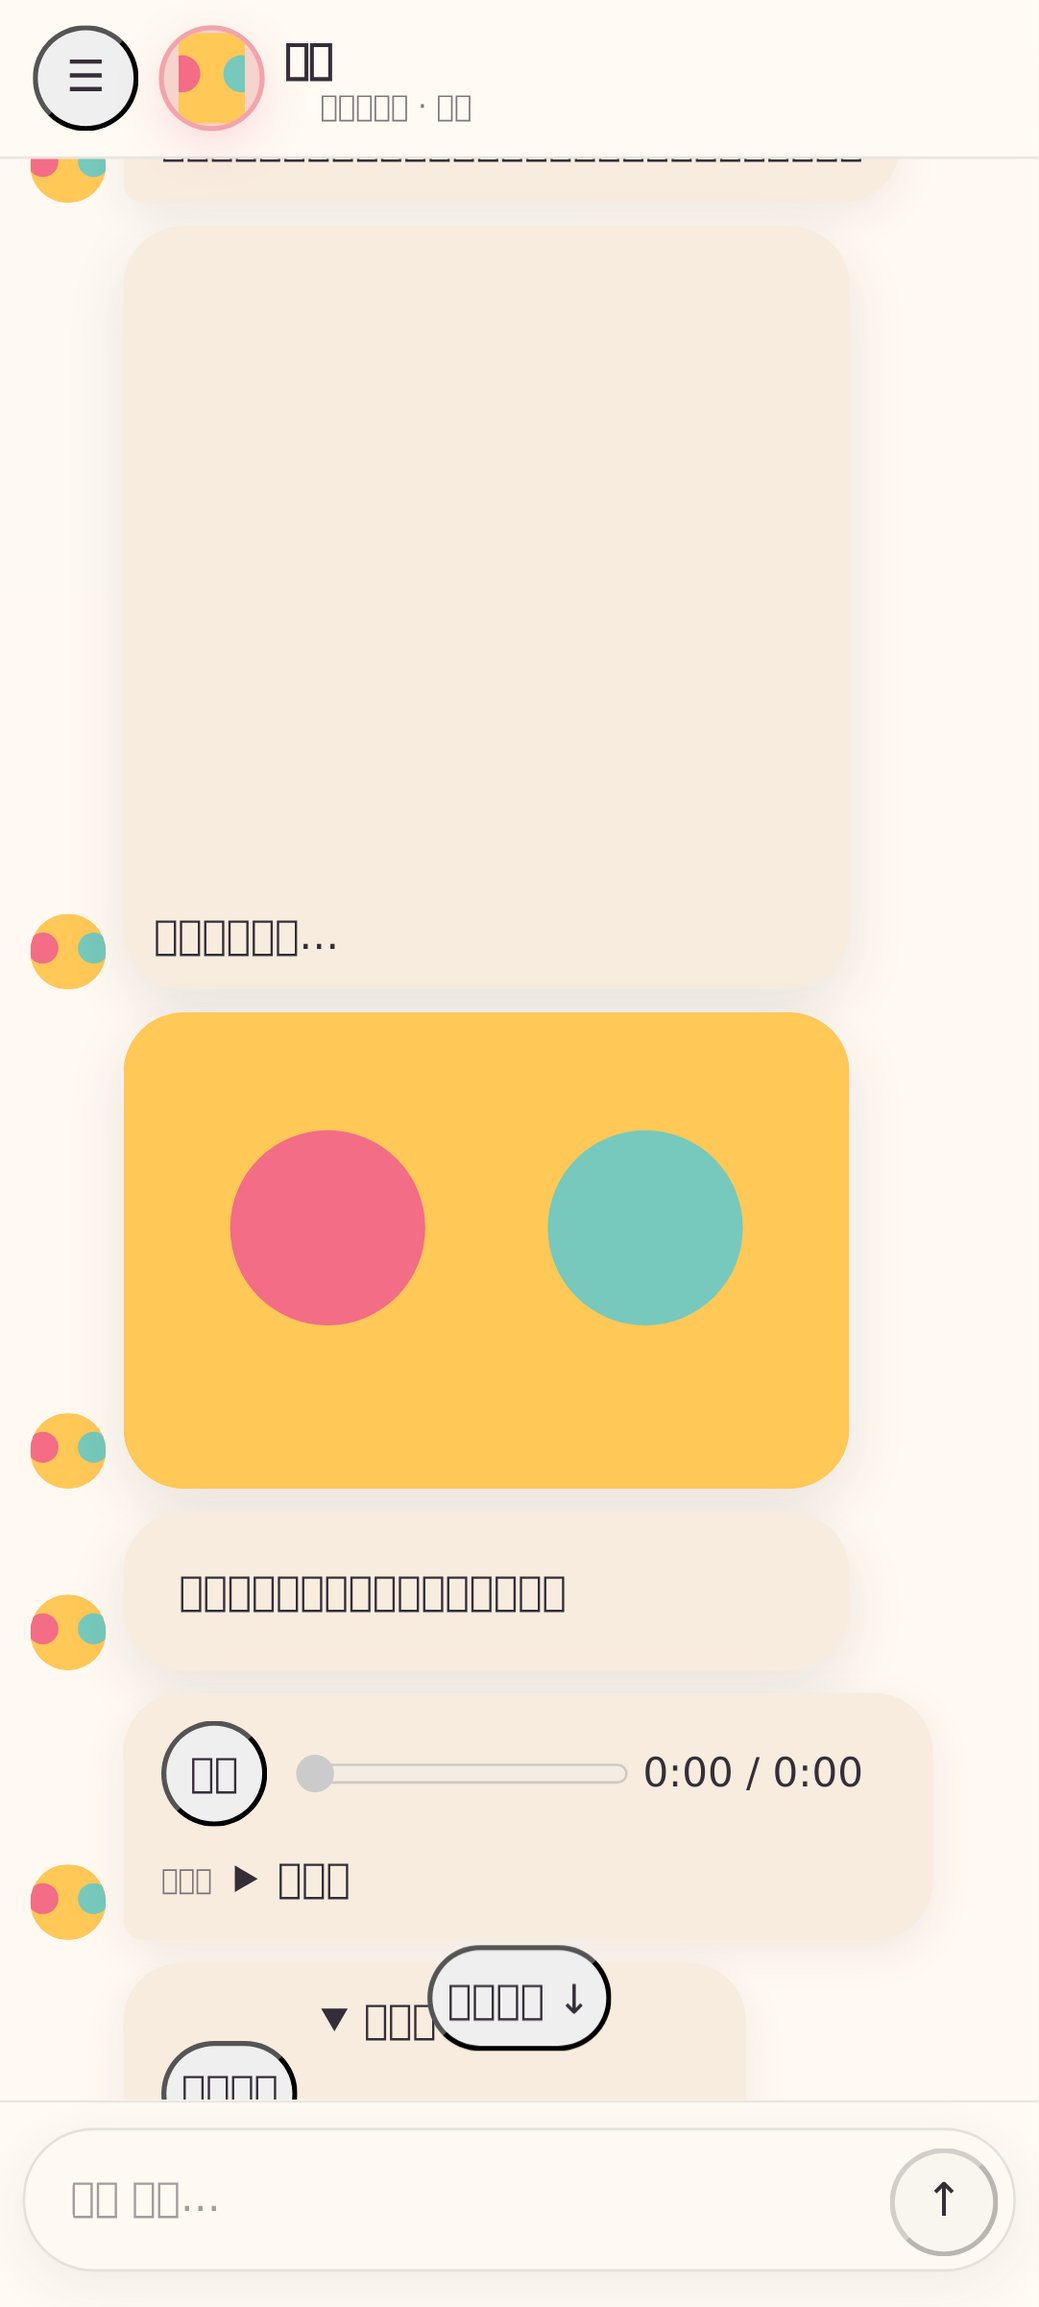
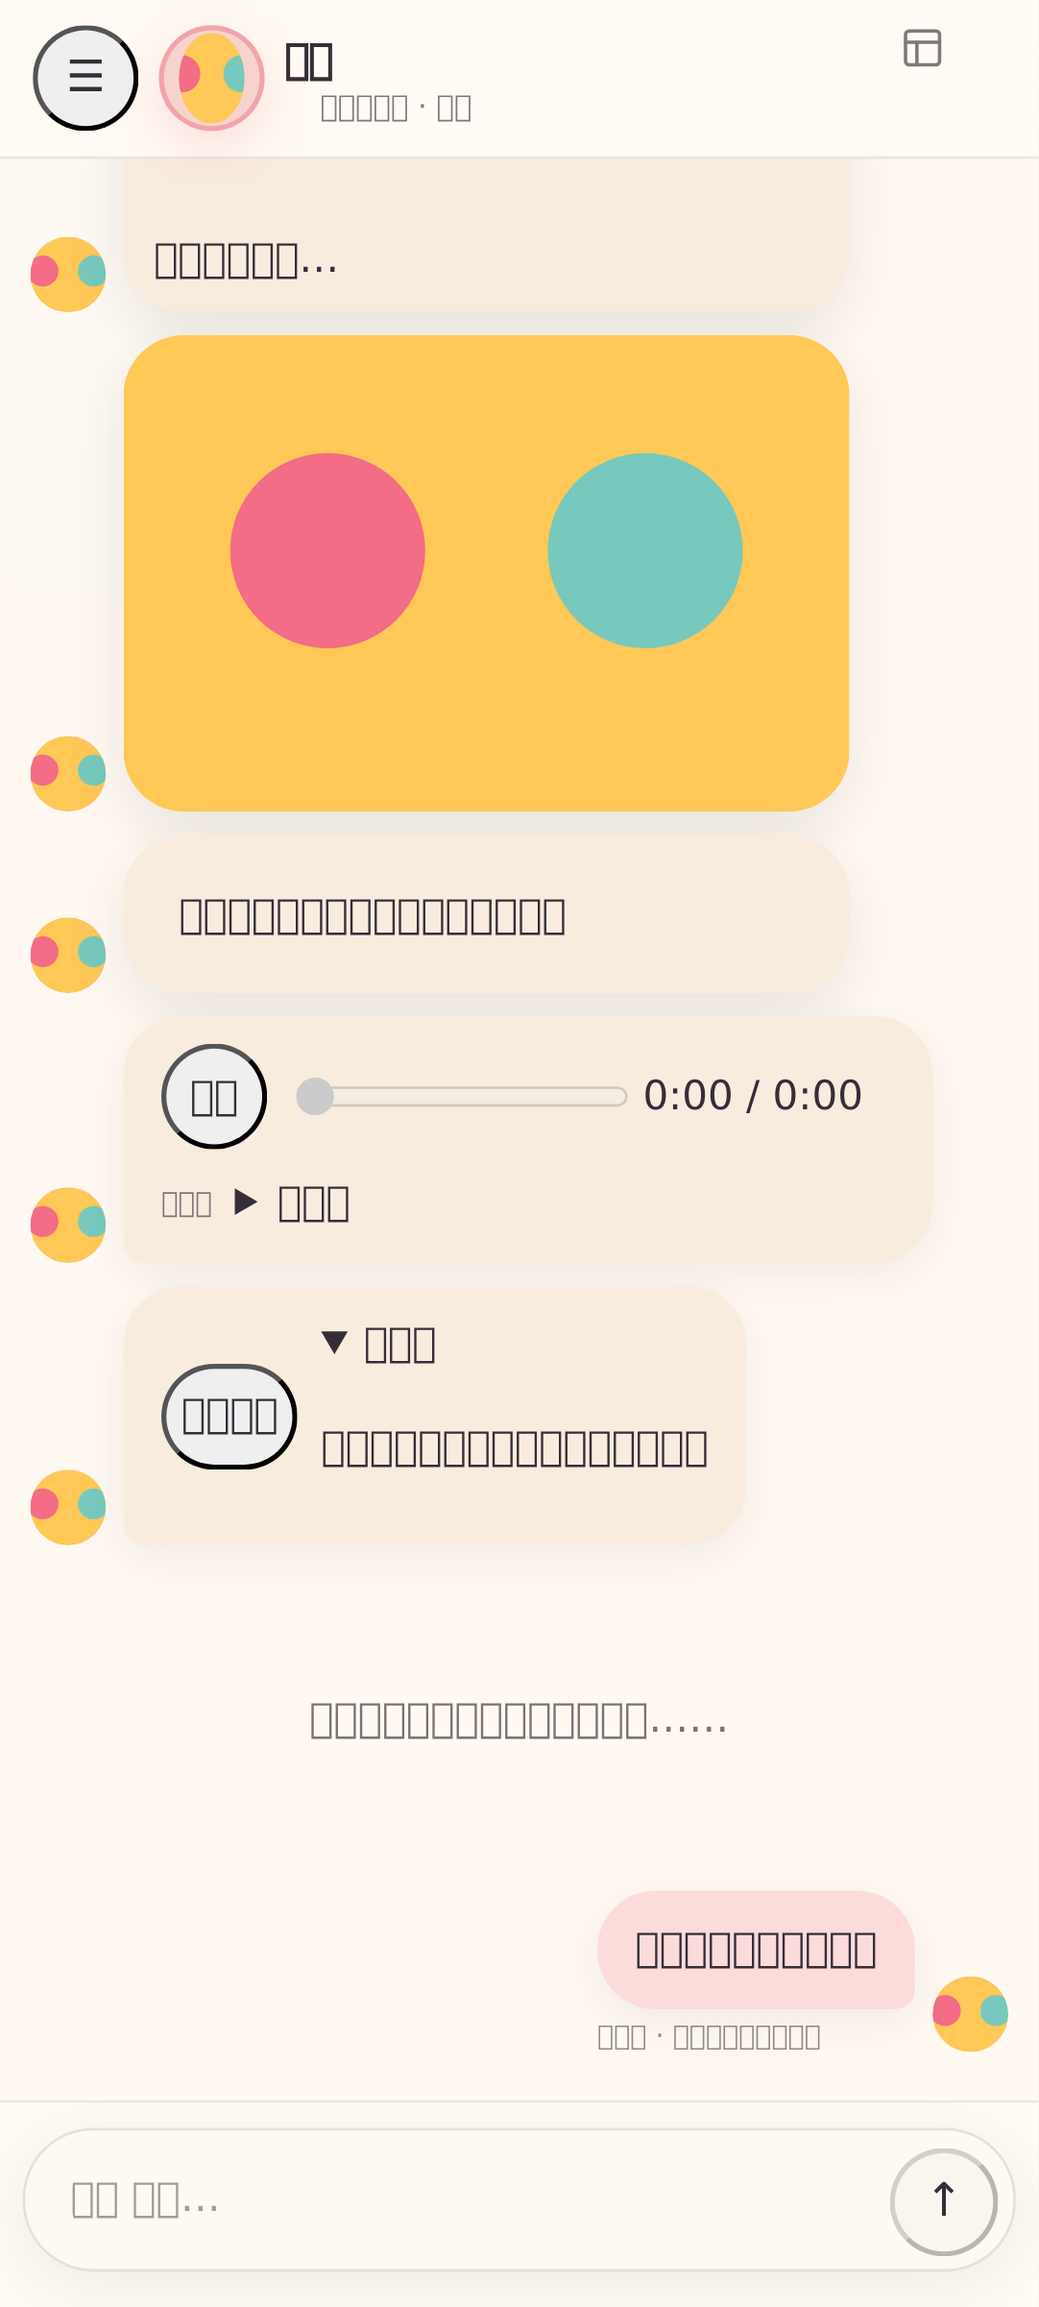
fix(companion): stabilize chat shell interactions

diff --git a/src/client/Companion.svelte b/src/client/Companion.svelte
@@ -1,5 +1,6 @@
 <script lang="ts">
   import { createEventDispatcher, onDestroy, tick } from "svelte";
+  import PanelsTopLeft from "lucide-svelte/icons/panels-top-left";
   import type { CompanionProjection, TimelineImage, TimelineVoice } from "../projection.js";
   import { createComposerState, reduceComposer, shouldSubmitEnter } from "./composer.js";
   import Markdown from "./Markdown.svelte";
@@ -45,6 +46,9 @@
   const dispatch = createEventDispatcher<{ advanced: void; recovery: void }>();
   let composer = createComposerState();
   let timeline: HTMLDivElement;
+  let timelineReady = false;
+  let timelineRevealFrame = 0;
+  let detailAnchor: HTMLDivElement;
   let sidebarOpen = typeof window !== "undefined" && window.matchMedia("(min-width: 821px)").matches;
   let detailOpen = false;
   let lightbox: TimelineImage | undefined;
@@ -73,9 +77,24 @@
   async function reconcileProjection(value: CompanionProjection): Promise<void> {
     await tick();
     if (!timeline) return;
+    if (value.openState !== "open") {
+      if (timelineRevealFrame) cancelAnimationFrame(timelineRevealFrame);
+      timelineRevealFrame = 0;
+      timelineReady = false;
+      return;
+    }
     const distance = timeline.scrollHeight - timeline.clientHeight - timeline.scrollTop;
     const nearBottom = wasNearBottom || distance < 96;
     if (nearBottom && !value.loadingOlder) timeline.scrollTop = timeline.scrollHeight;
+    if (!timelineReady) {
+      if (timelineRevealFrame) cancelAnimationFrame(timelineRevealFrame);
+      timelineRevealFrame = requestAnimationFrame(() => {
+        if (!timeline) return;
+        timeline.scrollTop = timeline.scrollHeight;
+        timelineReady = true;
+        timelineRevealFrame = 0;
+      });
+    }
     wasNearBottom = nearBottom;
     liveAnnouncement = value.promptError ?? value.lastAgentError ?? "";
     const wantedImages = new Map<string, TimelineImage>();
@@ -181,6 +200,14 @@
     wasNearBottom = timeline.scrollHeight - timeline.clientHeight - timeline.scrollTop < 96;
   }
 
+  function keepBottomOnResize(node: HTMLElement): { destroy(): void } {
+    const observer = new ResizeObserver(() => {
+      if (timelineReady && wasNearBottom && timeline) timeline.scrollTop = timeline.scrollHeight;
+    });
+    observer.observe(node);
+    return { destroy: () => observer.disconnect() };
+  }
+
   function submit(): void {
     const text = composer.draft.trim();
     if (!text || composer.composing) return;
@@ -230,7 +257,11 @@
   }
   function closeHistory(): void { if (overlayHistory) { overlayHistory = false; history.back(); } }
   function openDetail(): void { detailReturnFocus = document.activeElement as HTMLElement; detailOpen = true; focusFirst(() => detailDialog); }
-  function closeDetail(fromHistory = false): void { detailOpen = false; if (!fromHistory) closeHistory(); detailReturnFocus?.focus(); detailReturnFocus = undefined; }
+  function closeDetail(restoreFocus = true): void {
+    detailOpen = false;
+    if (restoreFocus) detailReturnFocus?.focus();
+    detailReturnFocus = undefined;
+  }
   function openLightbox(item: TimelineImage): void {
     lightboxReturnFocus = document.activeElement as HTMLElement;
     lightbox = item;
@@ -243,19 +274,23 @@
     if (lightbox && lightboxDialog) trapFocus(event, lightboxDialog);
     else if (detailOpen && detailDialog) trapFocus(event, detailDialog);
   }
-  function onPopState(): void { overlayHistory = false; if (lightbox) closeLightbox(true); else if (detailOpen) closeDetail(true); }
+  function onWindowPointerDown(event: PointerEvent): void {
+    if (detailOpen && detailAnchor && !detailAnchor.contains(event.target as Node)) closeDetail(false);
+  }
+  function onPopState(): void { overlayHistory = false; if (lightbox) closeLightbox(true); }
   function pushOverlayHistory(): void { if (!overlayHistory) { history.pushState({ companionOverlay: true }, ""); overlayHistory = true; } }
-  function showDetail(): void { pushOverlayHistory(); openDetail(); }
+  function toggleDetail(): void { if (detailOpen) closeDetail(); else openDetail(); }
   function showLightbox(item: TimelineImage): void { pushOverlayHistory(); openLightbox(item); }
   async function loadOlder(): Promise<void> { if (!actions.loadOlder || projection.loadingOlder) return; const previousHeight = timeline?.scrollHeight ?? 0; await actions.loadOlder(); await tick(); if (timeline) timeline.scrollTop += timeline.scrollHeight - previousHeight; }
 
   onDestroy(() => {
+    if (timelineRevealFrame) cancelAnimationFrame(timelineRevealFrame);
     for (const audio of document.querySelectorAll<HTMLAudioElement>("#dsh-companion .companion-voice audio")) audio.pause();
     for (const url of Object.values(imageUrls)) if (url.startsWith("blob:")) URL.revokeObjectURL(url);
   });
 </script>
 
-<svelte:window on:keydown={onWindowKeydown} on:popstate={onPopState} />
+<svelte:window on:keydown={onWindowKeydown} on:pointerdown={onWindowPointerDown} on:popstate={onPopState} />
 
 <div id="dsh-companion" class="companion-shell" data-theme={scheme === "dark" ? "night-voyage" : "sticker-messenger"} data-testid="companion-root">
   <div class="cmp-drawer companion-app" class:cmp-drawer-open={sidebarOpen} class:sidebar-open={sidebarOpen}>
@@ -264,12 +299,11 @@
     <main class="companion-main" aria-label="Companion 私聊">
       <header class="companion-header">
         <button class="cmp-btn cmp-btn-ghost cmp-btn-circle companion-session-toggle" aria-label={sidebarOpen ? "收起对话列表" : "展开对话列表"} aria-controls="companion-session-list" aria-expanded={sidebarOpen} on:click={() => sidebarOpen = !sidebarOpen}><span aria-hidden="true">☰</span></button>
-        <div class="companion-avatar-anchor">
-          <button class="cmp-avatar cmp-avatar-placeholder companion-avatar" aria-label="查看 Companion 关系资料" aria-expanded={detailOpen} on:click={showDetail}>
+        <div bind:this={detailAnchor} class="companion-avatar-anchor">
+          <button class="cmp-avatar cmp-avatar-placeholder companion-avatar" aria-label="查看 Companion 关系资料" aria-expanded={detailOpen} on:click={toggleDetail}>
             {#if identity.companionAvatar}<img src={identity.companionAvatar} alt="" />{:else}<span aria-hidden="true">✦</span>{/if}
           </button>
           {#if detailOpen}
-            <button class="companion-detail-dismiss" aria-label="点击空白处关闭关系资料" tabindex="-1" on:click={() => closeDetail()}></button>
             <dialog bind:this={detailDialog} open class="companion-detail-card cmp-modal-box" aria-label={`${identity.companionName}的关系资料`} style={`--relationship-art: url("${relationshipBackground}")`}>
               <div class="companion-detail-art" aria-hidden="true"></div>
               <div class="companion-detail-head">
@@ -286,7 +320,7 @@
           <div class="companion-name">{identity.companionName}</div>
           <div class="companion-presence" aria-live="polite"><span class="cmp-status {projection.status === 'working' ? 'cmp-status-warning' : projection.status === 'reconnecting' ? 'cmp-status-error' : 'cmp-status-success'}"></span>{statusText} · {identity.moodLabel}</div>
         </div>
-        <a class="companion-advanced" href="/" on:click={() => dispatch("advanced")}>高级 DSH</a>
+        <a class="cmp-btn cmp-btn-ghost cmp-btn-circle companion-full-dsh" href="/" aria-label="打开完整 DSH" title="打开完整 DSH" on:click={() => dispatch("advanced")}><PanelsTopLeft size={18} strokeWidth={1.8} aria-hidden="true" /></a>
       </header>
 
       {#if !workspaceReady}
@@ -304,7 +338,8 @@
           <button class="cmp-btn cmp-btn-primary" on:click={() => dispatch("recovery")}>重新连接</button>
         </section>
       {:else}
-        <div bind:this={timeline} class="companion-timeline" role="log" aria-live="polite" aria-relevant="additions text" on:scroll={onScroll}>
+        <div bind:this={timeline} class="companion-timeline" class:timeline-ready={timelineReady} role="log" aria-live="polite" aria-relevant="additions text" on:scroll={onScroll}>
+          <div class="companion-timeline-content" use:keepBottomOnResize>
           {#if projection.hasMore}
             <button class="cmp-btn cmp-btn-ghost cmp-btn-sm" style="display:block;margin:0 auto 18px" on:click={loadOlder} disabled={projection.loadingOlder}>{projection.loadingOlder ? "正在加载…" : "查看更早的消息"}</button>
           {/if}
@@ -353,6 +388,7 @@
             {/if}
           {/each}
           {#if !wasNearBottom && projection.items.length > 0}<button class="cmp-btn cmp-btn-primary cmp-btn-sm" style="position:sticky;bottom:10px;left:50%;transform:translateX(-50%)" on:click={() => timeline.scrollTop = timeline.scrollHeight}>有新消息 ↓</button>{/if}
+          </div>
         </div>
         <div class="companion-composer">
           <div class="companion-compose-row">
@@ -377,7 +413,7 @@
           {/each}
           {#if sessions.length === 0}<p class="companion-session-empty">还没有可以继续的对话</p>{/if}
         </nav>
-        <a class="companion-sidebar-advanced" href="/" on:click={() => dispatch("advanced")}>打开高级 DSH</a>
+        <a class="companion-sidebar-advanced" href="/" on:click={() => dispatch("advanced")}>打开完整 DSH</a>
       </aside>
     </div>
   </div>

diff --git a/src/client/theme.ts b/src/client/theme.ts
@@ -47,14 +47,17 @@ export const companionStyles = `
 #dsh-companion .companion-name{font-size:1.02rem;font-weight:780;letter-spacing:-.02em}
 #dsh-companion .companion-presence{display:flex;align-items:center;gap:6px;margin-top:2px;color:color-mix(in srgb,var(--color-base-content) 64%,transparent);font-size:.73rem}
 #dsh-companion .companion-presence .cmp-status{width:8px;height:8px}
-#dsh-companion .companion-advanced{color:inherit;opacity:.64;font-size:.76rem;text-decoration:none}
-#dsh-companion .companion-advanced:hover{opacity:1}
-#dsh-companion .companion-timeline{min-height:0;overflow-y:auto;overscroll-behavior:contain;scrollbar-gutter:stable;padding:28px clamp(16px,4vw,48px) 16px;scroll-behavior:smooth}
+#dsh-companion .companion-full-dsh{flex:none;color:inherit;opacity:.64;text-decoration:none}
+#dsh-companion .companion-full-dsh:hover{opacity:1}
+#dsh-companion .companion-timeline{min-height:0;overflow-y:auto;overscroll-behavior:contain;scrollbar-gutter:stable;padding:28px clamp(16px,4vw,48px) 16px}
+#dsh-companion .companion-timeline:not(.timeline-ready){visibility:hidden}
 #dsh-companion .companion-row{display:grid;grid-template-columns:34px minmax(0,auto);align-items:end;justify-content:start;gap:9px;width:100%;margin:9px 0}
 #dsh-companion .companion-row.outgoing{grid-template-columns:minmax(0,auto) 34px;justify-content:end}
 #dsh-companion .companion-row.outgoing .message-avatar{grid-column:2}
 #dsh-companion .companion-row.outgoing .companion-message-stack{grid-column:1;grid-row:1}
 #dsh-companion .message-avatar{width:34px;height:34px;font-size:.72rem}
+#dsh-companion .companion-avatar,#dsh-companion .message-avatar,#dsh-companion .companion-detail-avatar{overflow:hidden;border-radius:50%}
+#dsh-companion .companion-avatar img,#dsh-companion .message-avatar img,#dsh-companion .companion-detail-avatar img{border-radius:inherit}
 #dsh-companion .companion-message-stack{max-width:min(76vw,680px)}
 #dsh-companion .companion-bubble{max-width:min(76vw,680px);padding:11px 15px;border-radius:23px 23px 23px 8px;background:var(--color-base-200);box-shadow:0 5px 18px color-mix(in srgb,var(--color-base-content) 7%,transparent);line-height:1.55;overflow-wrap:anywhere}
 #dsh-companion .outgoing .companion-bubble{border-radius:23px 23px 8px 23px;background:color-mix(in srgb,var(--color-primary) 22%,var(--color-base-100))}
@@ -95,7 +98,6 @@ export const companionStyles = `
 #dsh-companion .companion-session-running{width:8px;height:8px;flex:none;border-radius:50%;background:var(--color-secondary);box-shadow:0 0 0 4px color-mix(in srgb,var(--color-secondary) 14%,transparent)}
 #dsh-companion .companion-session-empty{padding:16px 12px;opacity:.55;font-size:.78rem}
 #dsh-companion .companion-sidebar-advanced{margin-top:12px;padding:10px;color:inherit;opacity:.58;font-size:.74rem;text-align:center;text-decoration:none}
-#dsh-companion .companion-detail-dismiss{position:fixed;inset:0;z-index:18;border:0;background:transparent}
 #dsh-companion .companion-detail-card{position:absolute;z-index:20;top:calc(100% + 10px);left:-8px;width:min(372px,calc(100vw - 38px));max-width:none;margin:0;padding:0;overflow:hidden;border:1px solid color-mix(in srgb,var(--color-base-content) 12%,transparent);border-radius:28px;background:color-mix(in srgb,var(--color-base-100) 94%,transparent);color:var(--color-base-content);box-shadow:0 24px 70px rgb(0 0 0 / .28);animation:companion-card-in .2s cubic-bezier(.2,.8,.2,1);transform-origin:36px 0;backdrop-filter:blur(18px)}
 #dsh-companion .companion-detail-art{height:128px;background:linear-gradient(to bottom,transparent 45%,var(--color-base-100)),var(--relationship-art) center 54%/cover no-repeat}
 #dsh-companion[data-theme="sticker-messenger"] .companion-detail-art{filter:saturate(.78) brightness(1.2);opacity:.82}
@@ -114,7 +116,7 @@ export const companionStyles = `
 #dsh-companion .companion-lightbox-close{position:absolute;top:12px;right:12px;z-index:1}
 @keyframes companion-card-in{from{opacity:0;transform:translateY(-8px) scale(.96)}to{opacity:1;transform:none}}
 @media (min-width:821px){#dsh-companion .companion-sidebar-layer{position:relative;grid-column:1;grid-row:1;transform:none;width:100%;overflow:hidden}#dsh-companion .companion-app:not(.sidebar-open) .companion-sidebar-layer{width:0}#dsh-companion .companion-sidebar{position:absolute;inset:0 auto 0 0}}
-@media (max-width:820px){#dsh-companion.companion-shell{padding:0}#dsh-companion .companion-app,#dsh-companion .companion-app.sidebar-open{grid-template-columns:minmax(0,1fr);width:100%;height:100dvh;border:0;border-radius:0}#dsh-companion .companion-content{grid-column:1}#dsh-companion .companion-sidebar-layer{width:100%}#dsh-companion .companion-sidebar-overlay{position:absolute;inset:0;display:block;background:rgb(8 12 20 / .42)}#dsh-companion .companion-sidebar{position:relative;width:min(84vw,300px);box-shadow:20px 0 60px rgb(0 0 0 / .2)}#dsh-companion .companion-header{padding:calc(10px + env(safe-area-inset-top)) 13px 10px}#dsh-companion .companion-timeline{padding:18px 12px 10px}#dsh-companion .companion-advanced{display:none}#dsh-companion .companion-composer{padding-inline:9px}#dsh-companion .companion-compose-hint{display:none}#dsh-companion .companion-detail-card{left:-55px}#dsh-companion .companion-message-stack,#dsh-companion .companion-bubble{max-width:78vw}}
+@media (max-width:820px){#dsh-companion.companion-shell{padding:0}#dsh-companion .companion-app,#dsh-companion .companion-app.sidebar-open{grid-template-columns:minmax(0,1fr);width:100%;height:100dvh;border:0;border-radius:0}#dsh-companion .companion-content{grid-column:1}#dsh-companion .companion-sidebar-layer{width:100%}#dsh-companion .companion-sidebar-overlay{position:absolute;inset:0;display:block;background:rgb(8 12 20 / .42)}#dsh-companion .companion-sidebar{position:relative;width:min(84vw,300px);box-shadow:20px 0 60px rgb(0 0 0 / .2)}#dsh-companion .companion-header{padding:calc(10px + env(safe-area-inset-top)) 13px 10px}#dsh-companion .companion-timeline{padding:18px 12px 10px}#dsh-companion .companion-composer{padding-inline:9px}#dsh-companion .companion-compose-hint{display:none}#dsh-companion .companion-detail-card{left:-55px}#dsh-companion .companion-message-stack,#dsh-companion .companion-bubble{max-width:78vw}}
 @media (max-width:430px){#dsh-companion .companion-avatar{width:42px;height:42px}#dsh-companion .companion-header{gap:8px}#dsh-companion .companion-row{grid-template-columns:30px minmax(0,auto);gap:7px}#dsh-companion .companion-row.outgoing{grid-template-columns:minmax(0,auto) 30px}#dsh-companion .message-avatar{width:30px;height:30px}#dsh-companion .companion-voice{min-width:0;flex-wrap:wrap}#dsh-companion .companion-detail-card{left:-49px;width:calc(100vw - 20px)}}
 @media (prefers-reduced-motion:reduce){#dsh-companion *,#dsh-companion *::before,#dsh-companion *::after{animation-duration:.01ms!important;transition-duration:.01ms!important;scroll-behavior:auto!important}}
 `;

diff --git a/tests/e2e/fixture.spec.ts b/tests/e2e/fixture.spec.ts
@@ -40,7 +40,7 @@ test("Pixel 7a geometry keeps composer and relationship overlay usable", async (
   await expect(textarea).toHaveValue("中文输入测试\n第二行");
   await page.getByRole("button", { name: "查看 Companion 关系资料" }).click();
   await expect(page.getByRole("button", { name: "关闭关系资料", exact: true })).toBeFocused();
-  await page.goBack();
+  await page.keyboard.press("Escape");
   await expect(page.getByRole("dialog")).toHaveCount(0);
 });
 
@@ -110,6 +110,50 @@ test("chat shell has rendered Markdown, viewport scrolling, sessions, rounded fo
   expect(detailBox).not.toBeNull();
   expect(detailBox!.y).toBeLessThan(avatarBox!.y + 180);
   expect(detailBox!.x).toBeLessThan(avatarBox!.x + 120);
+});
+
+test("initial chat presentation is already at the bottom with circular avatars and a stable profile popover", async ({ page }) => {
+  await page.addInitScript(() => {
+    const state = window as unknown as { __companionScrollSamples: Array<{ distanceFromBottom: number; visible: boolean }> };
+    state.__companionScrollSamples = [];
+    const sample = () => {
+      const timeline = document.querySelector<HTMLElement>(".companion-timeline");
+      if (timeline) state.__companionScrollSamples.push({
+        distanceFromBottom: Math.round(timeline.scrollHeight - timeline.clientHeight - timeline.scrollTop),
+        visible: getComputedStyle(timeline).visibility === "visible",
+      });
+      requestAnimationFrame(sample);
+    };
+    requestAnimationFrame(sample);
+  });
+  await page.goto("/?theme=dark");
+  await page.waitForTimeout(500);
+
+  const scrollSamples = await page.evaluate(() => (window as unknown as { __companionScrollSamples: Array<{ distanceFromBottom: number; visible: boolean }> }).__companionScrollSamples);
+  const visibleSamples = scrollSamples.filter((sample) => sample.visible);
+  expect(visibleSamples.length).toBeGreaterThan(0);
+  expect(Math.abs(visibleSamples[0]!.distanceFromBottom)).toBeLessThanOrEqual(1);
+  expect(Math.abs(visibleSamples.at(-1)!.distanceFromBottom)).toBeLessThanOrEqual(1);
+
+  for (const avatar of await page.locator(".companion-avatar, .message-avatar").all()) {
+    const geometry = await avatar.evaluate((node) => {
+      const style = getComputedStyle(node);
+      const bounds = node.getBoundingClientRect();
+      return { radius: Number.parseFloat(style.borderRadius), size: Math.min(bounds.width, bounds.height), overflow: style.overflow };
+    });
+    expect(geometry.radius).toBeGreaterThanOrEqual(geometry.size / 2 - 1);
+    expect(geometry.overflow).toBe("hidden");
+  }
+
+  const fullDsh = page.getByRole("link", { name: "打开完整 DSH" });
+  await expect(fullDsh.locator("svg")).toHaveCount(1);
+
+  await page.getByRole("button", { name: "查看 Companion 关系资料" }).click();
+  const profile = page.getByRole("dialog", { name: "小灯的关系资料" });
+  await page.waitForTimeout(600);
+  await expect(profile).toBeVisible();
+  await page.locator(".companion-header-copy").click();
+  await expect(profile).toHaveCount(0);
 });
 
 test("captures readable Sticker Messenger and Night Voyage references", async ({ page }, testInfo) => {
